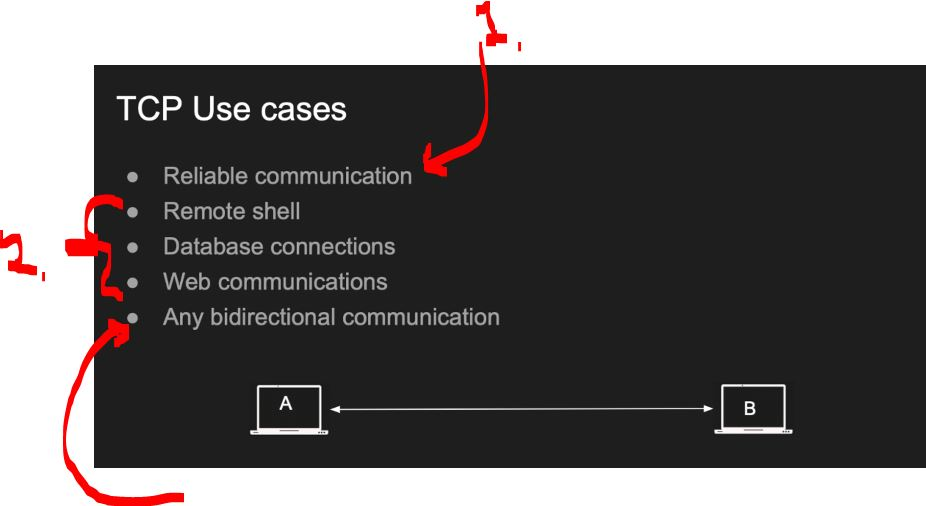
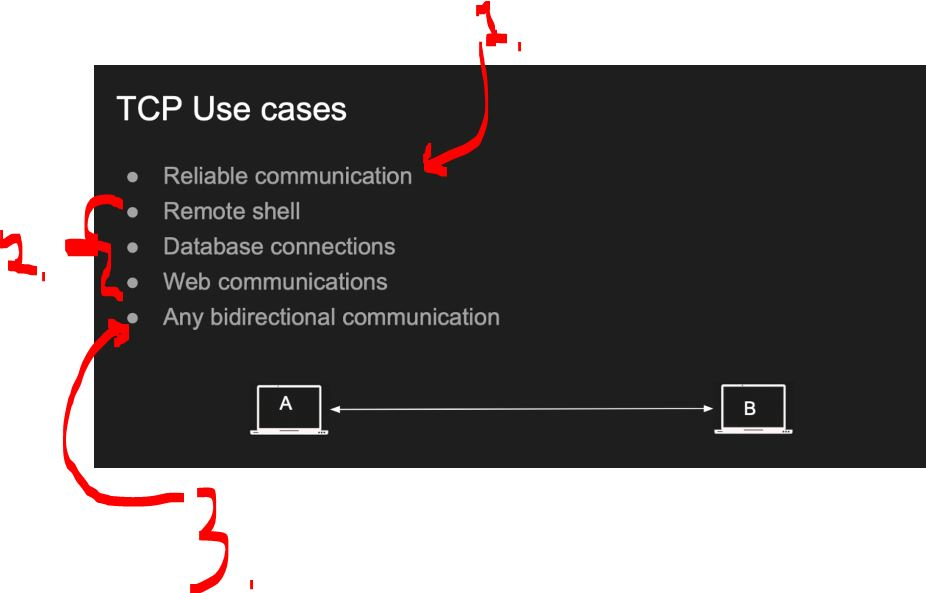
proceeded

Changed region(s): [[0.0605, 0.2075, 1.0, 1.0], [0.0907, 0.0, 1.0, 0.2372], [0.0, 0.3854, 0.0605, 0.5632]]

diff --git a/Fundamentals of Backend Engineering/Section 03/README.md b/Fundamentals of Backend Engineering/Section 03/README.md
@@ -6,9 +6,107 @@ Protocols.
 
 # Protocols Intro.
 
+<div align="center">
+    <img width="500px" alt="Backend course!" src="Protocol_Introduction.JPG">
+</div>
+
+1. We will answer many questions like: 
+    - What is protocol?
+    - When design protocol, what you take into account?
+    - **Popular protocols** are covered here: 
+
 # Protocol Properties.
 
+<div align="center">
+    <img width="500px" alt="Backend course!" src="Protocol_Properties_Intro.JPG">
+</div>
+
+1. What needs to is needed to think, when designing the **protocol**!
+    - Take these with grain of salt!
+
+<div align="center">
+    <img width="500px" alt="Backend course!" src="What_Is_Protocol.JPG">
+</div>
+
+1. Protocol is set of **rules** for two parties to **communicate**!
+2. Every protocol is to **solve problem**!
+    - `TCP`, was designed to solve problem in 60's!
+        - Its getting old check: [TCP needs to be replaced](https://www.youtube.com/watch?v=nEFOni_87Yw)!
+            - `TCP` was designed for low-bandwidth.
+    - `UDP`.
+    - `HTTP`.
+    - `gRPC`.
+    - `FTP`.
+
+<div align="center">
+    <img width="500px" alt="Backend course!" src="Protocol_Properties.JPG">
+</div>
+
+1. What is the **data format** of the protocol?
+    - **Text Based**:
+        - *Plain Text*.
+        - *JSON*.
+        - *XML*.
+    - **Binary** (Compact, machine-readable):
+        - This was designed to be read by machine, so it could be read **efficiently**!
+            - *Protobuf*.
+            - *RESP* (Redis protocol).
+            - *h2* (HTTP/2).
+            - *H3* (HTTP/3).
+2. What is the **transfer mode** of the protocol?
+    - **Message based**:
+        - There is **start** and the **end**!
+             - *UDP*.
+             - *HTTP*.
+    - **Stream**:
+        - There is **continuous sequence** of bytes!
+            - *TCP*.
+            - *WebRTC*.
+3. What is the **addressing system** of the protocol?
+    - *DNS*.
+    - *IP*.
+    - *MAC*.
+4. What is the **directionality** of the protocol?
+    - *Bidirectional* (TCP).
+    - *Unidirectional* (HTTP).
+    - *Full/Half duplex*.
+        - Wi-Fi is **half-duplex**.
+            - In half duplex communication, both devices can:
+                - Send data.
+                - Receive data.
+                    - …but not at the same time!
+
+<div align="center">
+    <img width="500px" alt="Backend course!" src="Protocol_Properties_Second.JPG">
+</div>
+
+1. What is the **state** of the protocol?
+    - **Stateful**:
+        - *TCP*.
+        - *gRPC*.
+        - *Apache thrift*.
+    - **Stateless**:
+        - *UDP*.
+        - *HTTP*.
+
+2. How you protocol deals with **routing**!
+    - There is **start** and the **end**!
+        - *Proxies*, *Gateways*.
+3. How you protocol deals with **flow control** and the **congestion control** ! 
+    - **Flow control** how a fast sender doesn’t overwhelm a slow **receiver** and **Congestion control** prevent network overload.
+            - *TCP* (flow and congestion control)
+            - *UDP* Does not control!
+4. How you protocol deals with **error management**!
+
 # OSI Model.
+
+<div align="center">
+    <img width="500px" alt="Backend course!" src="OSI_Model.JPG">
+</div>
+
+1. One engineer should understand the **OSI** model, when creating apps, which are touching **networking**! No need to master fully!
+
+- Todo jatka tästä!
 
 # Internet Protocol.
 
@@ -44,7 +142,7 @@ Protocols.
         - There can be different processes to receive different packages!
     - **TODO** Check this again after UDP!
 3. UDP **Control's** the transmission!
-    - Unlike the **UDP** packages are being shooted out! For this reason the **firewall** sometimes block the **UDP** packages!
+    - Unlike the **UDP** packages are being shot out! For this reason the **firewall** sometimes block the **UDP** packages!
 4. **TCP** is having connection, meaning both side **client** and the **server** are holding **information** about each other!
 5. For having this **connection**, we need the **handshake**!
 6. It's **stateful**!
@@ -179,6 +277,11 @@ Protocols.
 3. Then **connection** its **closed**!
 
 - Get back here after finishing the **TSL** and **TCP** chapter!
+
+<div align="center">
+    <img width="500px" alt="Backend course!" src="TCP_Connection.JPG">
+</div>
+
 
 # HTTPS, TLS, Keys and Certificates.
 

diff --git a/README.md b/README.md
@@ -27,6 +27,9 @@
 
 All course material from *Design Patterns in Java* by from **Dmitri Nesteruk**.
 
+> . 🐟🐟🐟 <br><br>
+~ *DevelopersCradle*
+
 Contains my own with my own visual notes ✍️ with some course material to enforce learning experience.
 
 
@@ -79,23 +82,23 @@ Linkedin puts this shit front, when clicking from private mode x(. Need to put t
 - [ ] [Section 25](#) - Visitor.
 - [ ] [Section 26](#) - Course Summary.
 
-### Additional stuff.
+#### Additional stuff.
 
 - [ ] Make caption coherent.
-- [ ] In typescript [Ts](https://refactoring.guru/design-patterns/typescript).
+- [ ] In Typescript [Ts](https://refactoring.guru/design-patterns/typescript).
 - [ ] In [C++](https://www.udemy.com/course/patterns-cplusplus/).
 
 <details>
 
 <summary id="IDE problem" open="false"> <b>As using IDE  studying tool. Here is the common errors.</b> </summary>
 
-<img src="AddingChapters.PNG" alt="alt text" width="200"/>
+<img src="AddingChapters.PNG" alt="Course chapters." width="200"/>
 
 - When adding more chapters, do in this perspective/look.
 
 <br>
 
-<img src="rememberToCleanRunningConfigInEclipseIfErro.PNG" alt="alt text" width="300"/>
+<img src="Remember_To_Clean_Running_Configs_In_Eclipse_If_There_Is_Error.PNG" alt="Remember to check the settigs!" width="300"/>
 
 1. If you pull and encounter error. Remember to delete running config sometimes! [Link](https://stackoverflow.com/questions/11235827/eclipse-error-could-not-find-or-load-main-class).
 
@@ -108,13 +111,22 @@ Linkedin puts this shit front, when clicking from private mode x(. Need to put t
 </details>
 
 <p align="center">
-    <img id="studying" src="Clean Code Caption.png" height=90>
+    <img
+     src="Clean_Code_Caption.png"
+    alt="Clean Code Caption!"
+    style="width:1600px;height:110px;"/>
 </p>
 
-
-![Clean Code](Clean%20Code%20Desc.png)
+<p align="center">
+    <img src="Clean_Code_Description.png"
+    alt="Clean Code Description!"
+    style="width:690px" />
+</p>
 
 All course material from *Clean Code* by **Maximilian Schwarzmüller**.
+
+> . 🐟🐟🐟 <br><br>
+~ *DevelopersCradle*
 
 Contains my own with my own visual notes ✍️ with some course material to enforce learning experience.
 
@@ -166,6 +178,10 @@ Linkedin puts this shit front, when clicking from private mode x(. Need to put t
 </p>
 
 All course material from *Java Design Patterns & SOLID Design Principles* by **Coffee Powered Crew**.
+
+> . 🐟🐟🐟 <br><br>
+~ *DevelopersCradle*
+
 
 Contains my own with my own visual notes ✍️ with some course material to enforce learning experience.
 
@@ -307,10 +323,8 @@ Linkedin puts this shit front, when clicking from private mode x(. Need to put t
 
 All course material from *Fundamentals of Backend Engineering* by **Hussein Nasser** ©.
 
-
 >  🐟🐟🐟 <br><br>
 ~ *DevelopersCradle*
-
 
 Contains my own with my own visual notes ✍️ with some course material to enforce learning experience.
 
@@ -381,7 +395,6 @@ Linkedin puts this shit front, when clicking from private mode x(. Need to put t
 <p align="center">
     <!-- <img id="Microservices_Architecture_The_Complete_Guide_Certificate?trk=public_profile_see-credential" src="Microservices_Architecture_The_Complete_Guide_Certificate.jpg" alt="SOAP Web Services with Java_certificate" width="600"/> -->
 </p>
-
 
 **Note: The material provided in this repository is only for helping those who may get stuck at any point of time in the course. It is very advised that no one should just copy the solutions(violation of Honor Code) presented here.**
 